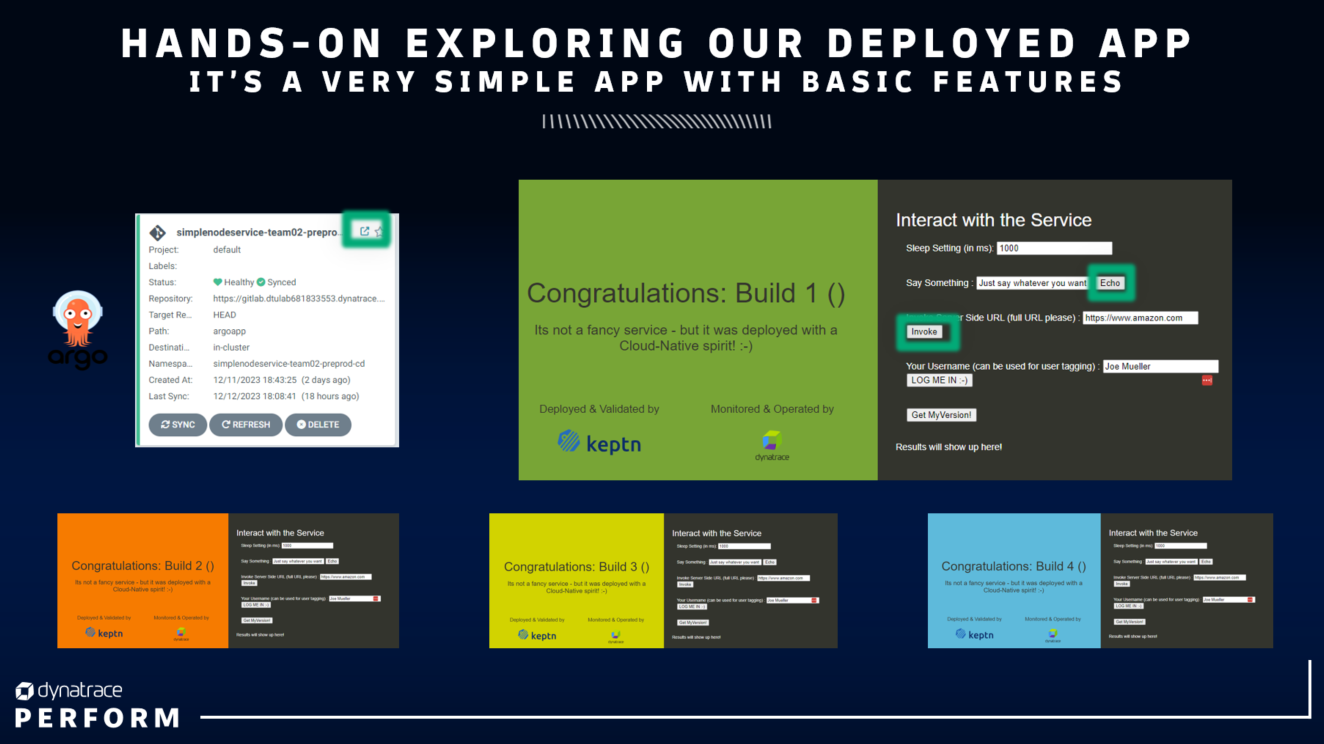
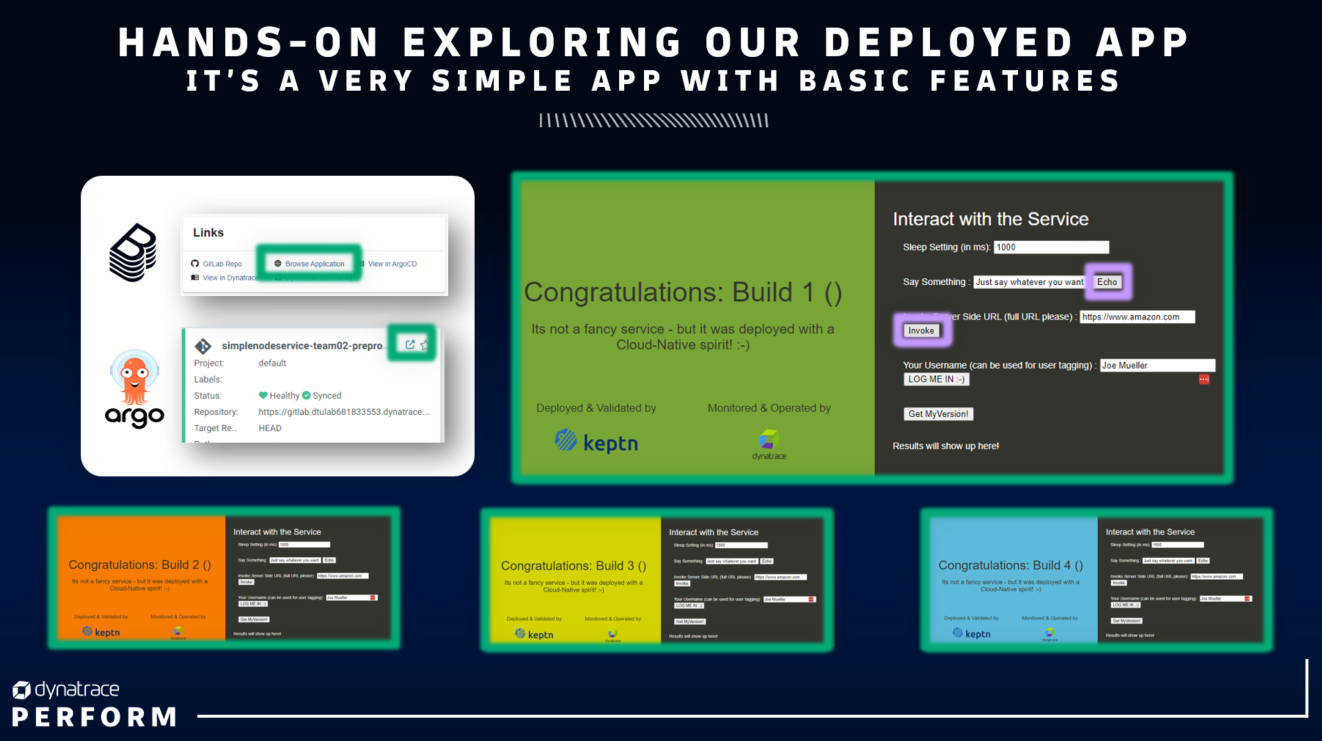
hands on updates

diff --git a/handson/handson3.md b/handson/handson3.md
@@ -61,3 +61,31 @@ Lets therefore add a new HTTP Request task as shown below in the image. Here the
 ```
 
 ![](https://raw.githubusercontent.com/dynatrace-perfclinics/platform-engineering-tutorial/main/images/handson3_34_add_notifications_1.png)
+
+---
+
+### (Optional) Hands-On 3: Extending the Guardian with more objectives
+
+The power of Dynatrace is that we have all relevant data in Grail which makes it usable for the Site Reliability Guardian (SRG)
+In this optional Hands-On we can extend the guardian we just created with additional objectives such as
+1. Validate that there are no error logs
+2. Validate that response time is within a certain threshold
+3. Validate that there are no HTTP 5xx
+4. Validate that there are no security vulnerabilities
+5. Validate that memory and cpu usage is within expectations
+
+#### 3.5 Adding Error Log Objective
+
+We can easily add a new objective to validate whether we have any error logs. Our application creates error logs when 
+1. We `Invoke` passing a Server URL that is invalid, e.g: www.wrongdomain.abc
+2. We call the URL: `/api/causeerror`
+
+To create such an objective we should first define and test a DQL query that gives us the number of error logs created by our app. Once we have it we can add this query as an objective and specify a threshold that should not be higher than 0.
+
+To make it easier for you see the `Query Error Logs` DQL query below. Modify it by using your `team identifier`. Run it to make sure it works. Then update the Guardian!
+```
+fetch `logs`
+| filter contains(`k8s.pod.name`, "team02")
+| filter contains(content, "Error")
+| summarize errorCount=count()
+```

diff --git a/handson/handson2.md b/handson/handson2.md
@@ -79,6 +79,15 @@ For this we can use Dynatrace Ownership, Dynatrace Synthetics and Dynatrace SLOs
 
 ![](https://raw.githubusercontent.com/dynatrace-perfclinics/platform-engineering-tutorial/main/images/handson2_24_configascode_1.png)
 
+#### Explore our App Yourself
+
+As you have seen - we have Dynatrace Synthetic Tests that are testing our application. Its time to also browse to our app as it is exposed via an Ingress to the internet. There are several ways we can find the URL
+1. We can take it from the Dynatrace Synthetic Test
+2. We can see it in ArgoCD
+3. We can get it from the Ingress Definition in GitLab
+
+![](https://raw.githubusercontent.com/dynatrace-perfclinics/platform-engineering-tutorial/main/images/handson2_24_exploreourapp_1.png.png)
+
 ---
 
 #### 2.5 How we make Dynatrace Lifecycle Event Aware!
